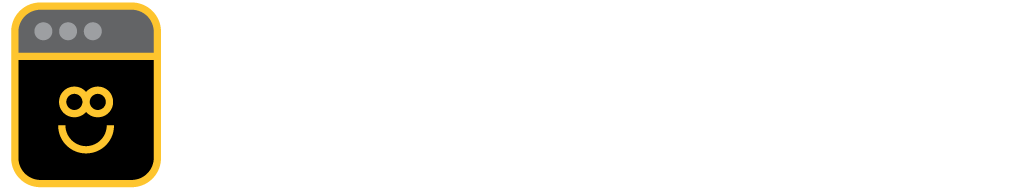
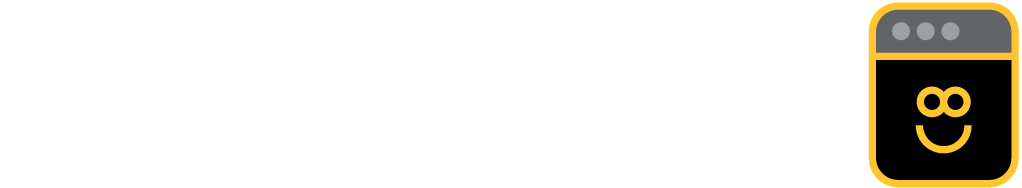
updates

Changed region(s): [[0.0, 0.0, 0.182, 1.0], [0.8493, 0.0, 1.0, 1.0]]

diff --git a/0home.html b/0home.html
@@ -47,8 +47,8 @@
 			<div id="character_icon"><a href="0characters.html"><img src="images/character_icon.png" alt="character_icon" style="width:100%"></a></div>
 			<div id="hover"><a href="0characters.html"><img src="images/character_icon_text.png" alt="character_icon" style="width:100%"></a></div>
 		</div>
-		<div id="blank">
-			<img src="images/blank.png" alt="blank" style="width:100%" class="center">
+		<div id="text">
+			<img src="images/text2.png" alt="text2" style="width:100%" class="center">
 		</div>
 </div>
 

diff --git a/0homestyle.css b/0homestyle.css
@@ -24,20 +24,26 @@ html{
 	display: grid;
 	grid-template-columns: 50% 50%;
 	position: relative;
+	padding: 10px;
   }
 
 #map{
-	padding: 10px;
 	float: left;
 	object-fit: contain;
 }
 
 #text{
 	object-fit: contain;
+	padding: 10px;
 }
 
 #welcome{
 	padding-top: 20px;
+}
+
+#characters{
+	padding: 10px;
+	object-fit: contain;
 }
 
 #map_click, #character_click{

diff --git a/0mapstyle.css b/0mapstyle.css
@@ -37,9 +37,13 @@ html{
 	margin-right: auto;
   }
 
+#map{
+  position: relative;
+}
+
 #map img{
-    max-height: 65%;
-    max-width: 100%;
-    position: fixed;
+  max-height: 65%;
+  max-width: 100%;
+  position: fixed;
 	bottom: 10px;
 }
